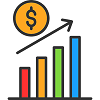
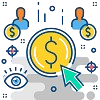
Today 30-1-2025 Update Code

diff --git a/src/main/resources/templates/licenses/license/home.html b/src/main/resources/templates/licenses/license/home.html
@@ -20,7 +20,7 @@
       <div class="col-sm-4" sec:authorize="hasRole('ROLE_ADMIN') or hasRole('ROLE_LICENSE')">
         <div class="custom-card text-center p-3">
           <a th:href="@{/licenses/license/registration/profile/license_new_profile}">
-            <img th:src="@{/images/license_new_applicant.png}" alt="License Management System" class="img-fluid"></a>
+            <img th:src="@{/images/New_application.png}" alt="License Management System" class="img-fluid"></a>
           <h4 class="license-link mt-2">
             <a th:href="@{/licenses/license/registration/profile/license_new_profile}" th:text="#{license_applicant}" style="font-size:20px;"></a>
           </h4>
@@ -85,7 +85,7 @@
     <div class="col-sm-4" sec:authorize="hasRole('ROLE_ADMIN') or hasRole('ROLE_LICENSE')">
       <div class="custom-card text-center p-3" >
           <a th:href="@{/licenses/license/extension/extension_home}">
-            <img th:src="@{/images/extension.png}" alt="Codes Management System"></a>
+            <img th:src="@{/images/finance_extension.png}" alt="license Management System"></a>
           <h4 class="license-link" style="margin-top: 12px;">
             <a th:href="@{/licenses/license/extension/extension_home}"  style="font-size:20px;">License Fees Extension</a>
           </h4>

diff --git a/src/main/resources/templates/index.html b/src/main/resources/templates/index.html
@@ -24,7 +24,7 @@
             <td>
                 <div class="custom-card" sec:authorize="hasRole('ROLE_LICENSE')">
                     <a th:href="@{/licenses/license/home}">
-                        <img th:src="@{/images/licensing.png}" alt="License Management System">
+                        <img th:src="@{/images/license_management.png}" alt="License Management System">
                     </a>
                     <h4 class="license-link" style="margin-top: 12px;">
                         <a th:href="@{/licenses/license/home}" th:text="#{lms}"></a>
@@ -34,7 +34,7 @@
             <td>
                 <div class="custom-card"  sec:authorize="hasRole('ROLE_FINANCE') or hasRole('ROLE_MINISTRY')">
                     <a th:href="@{/licenses/finance/home}">
-                        <img th:src="@{/images/revenue-growth.gif}" class="rounded" style="width:100px;height:100px;" alt="LMS">
+                        <img th:src="@{/images/finance.png}" class="rounded" style="width:100px;height:100px;" alt="LMS">
                     </a>
                     <h4 class="license-link" style="margin-top: 12px;">
                         <a th:href="@{/licenses/finance/home}" th:text="#{frms}"></a>
